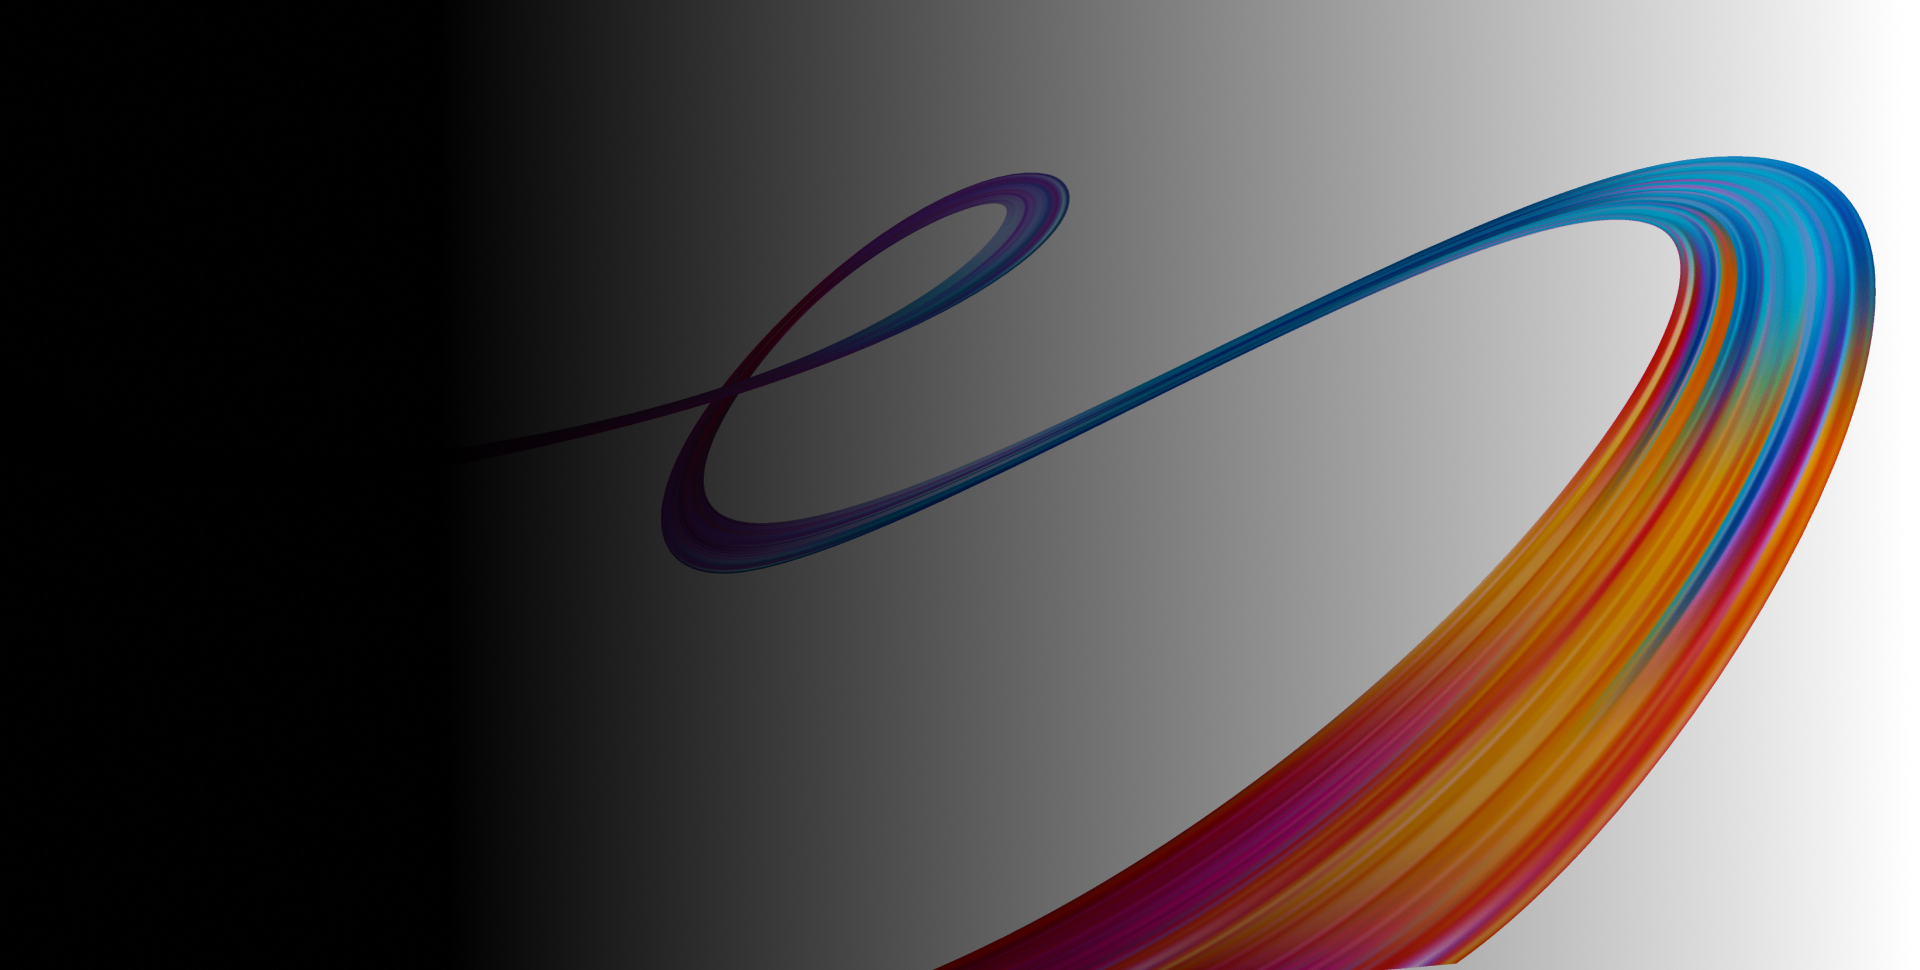
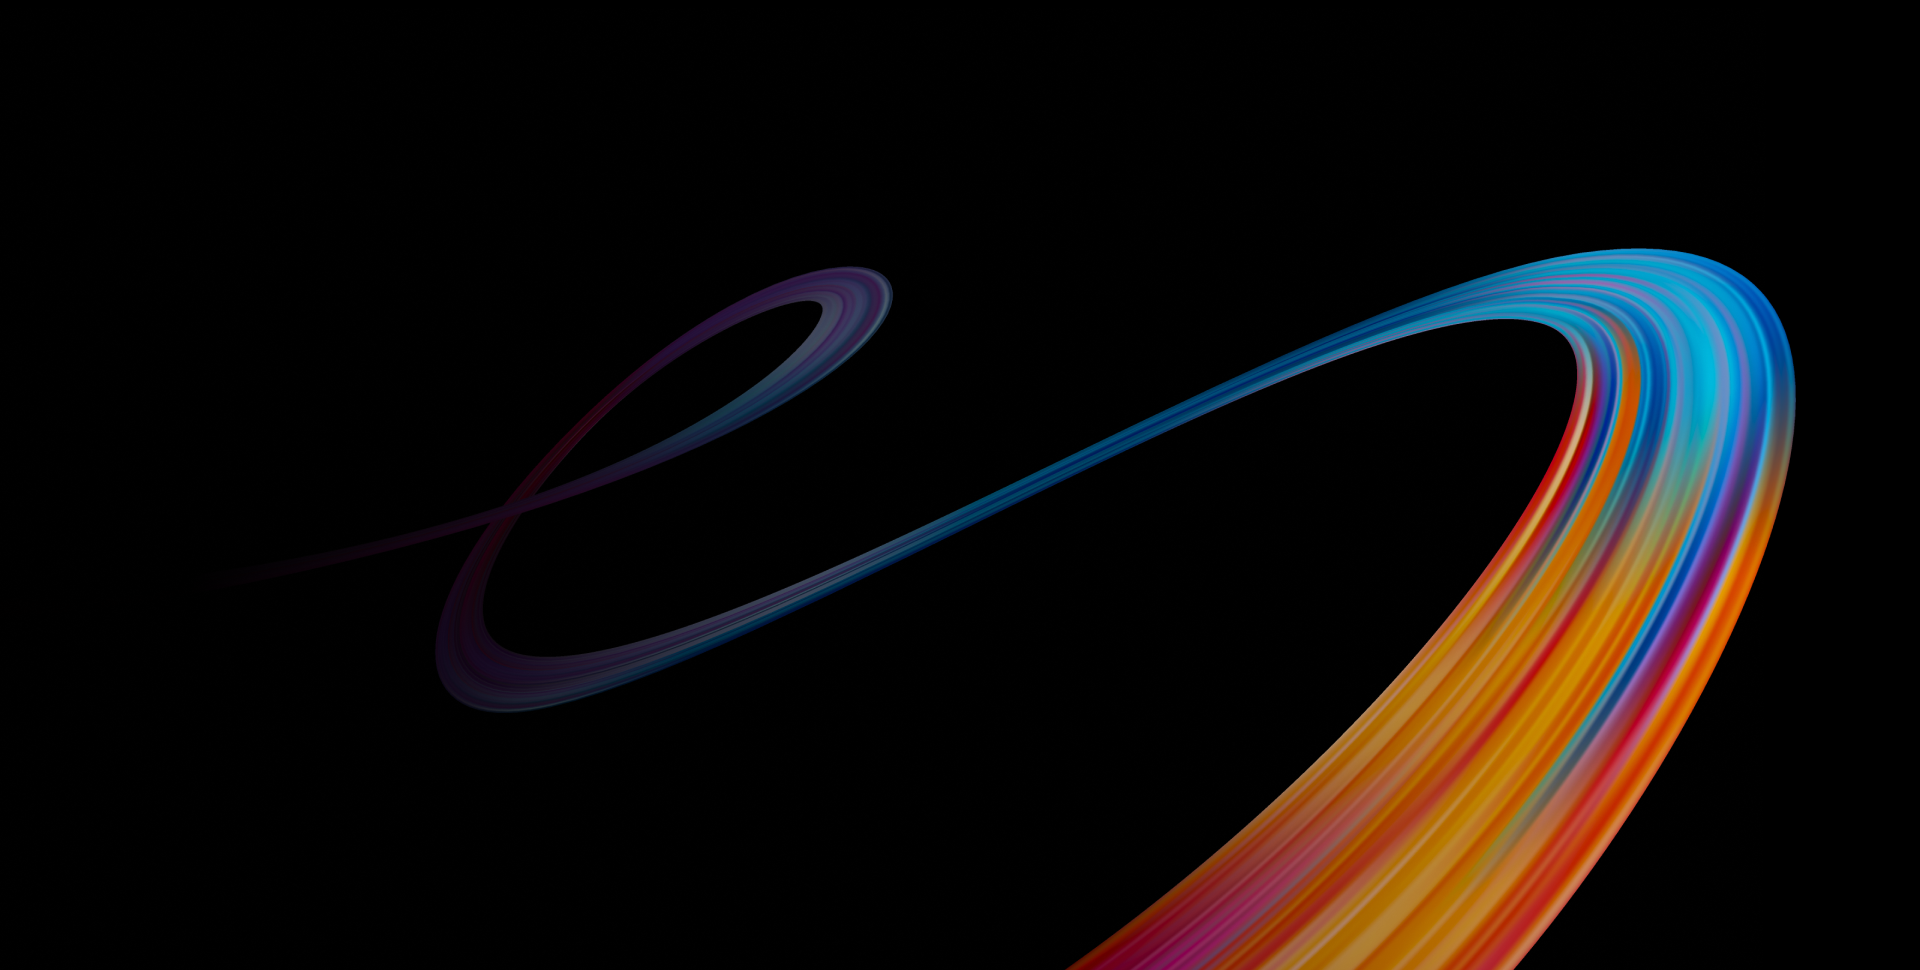
.

diff --git a/asset/css/common.css b/asset/css/common.css
@@ -34,10 +34,10 @@ footer p { font-size: 0.73vw ; line-height: 0.99vw ; text-align: right;}
 footer .p2 { margin-top: 1.09vw ;}
 
 /* Common */
+section {position: relative;min-height: 50.52vw;padding: 0 4.69vw;}
+section::after {position: absolute;bottom: 0;content: "";width: 84.38vw ;height: 1px;background-color: #5A5A5A;}
 .wrap{ width: 100vw; padding: 4.84vw 3.13vw 3.59vw 3.13vw;}
 .scroll { position: absolute; top: 41.09vw ; right: 4.69vw; font-size: 0.94vw ;line-height: 1.35vw ; transform: rotate(90deg);}
-.scroll.off { display: none;}
-.scroll.bottom { display: none !important;}
 
 /* INDEX(MAIN) */
 .mainWrap { padding: 2.4vw 4.69vw 0;}
@@ -57,12 +57,10 @@ footer .p2 { margin-top: 1.09vw ;}
 .mainWrap #nftTower { position: absolute; top: 7.24vw ; right: 11.72vw ; width: 14.06vw ;}
 
 /* ABOUT */
-#about section {position: relative;min-height: 50.52vw;padding: 0 4.69vw;}
-#about section::after {position: absolute;bottom: 0;content: "";width: 84.38vw ;height: 1px;background-color: #5A5A5A;}
 #about .p0 {font-size: 1.25vw ;line-height: 1.82vw ;padding-top: 4.90vw ;}
 #about.wrap {padding: 4.84vw 3.13vw 0 3.13vw;}
 
-#about .section01{padding-top: 6.25vw; background-image: url("../image/about-bg01.png");background-position-x: -78px;}
+#about .section01{padding-top: 6.25vw; background-image: url("../image/about-bg01.png");background-position-y: -98px; background-size: 1920px 1066px;}
 #about .section01 .p1 {font-size: 1.46vw ;line-height: 2.14vw ;color: #787878;} 
 #about .section01 .p2 {font-size: 2.08vw ;line-height: 2.34vw ;} 
 #about .section01 .p3 {font-size: 2.60vw ;line-height: 3.39vw ;} 
@@ -93,12 +91,22 @@ footer .p2 { margin-top: 1.09vw ;}
 
 #about .section05 { position: relative;}
 #about .section05::after {content:none }
-#about .section05 .section05-bg{position: absolute;top: 0;left: -55px;width: 100vw;height: 100%;}
-#about .section05 .contents{display: flex;flex-direction: column;align-items: center;text-align: center;margin-top: 94px;}
-#about .section05 .contents .flexBox {text-align: left;margin-left: 350px;}
-#about .section05 .contents .flexBox .dl{width: 187px;font-size: 22px;line-height: 33px;margin-bottom: 42px;}
-#about .section05 .contents .flexBox .dr{width: 673px;font-size: 20px;line-height: 33px;}
-#about .section05 .contents .flexBox .p2{font-size: 18px;line-height: 21px;color: #9A9A9A;margin-top: 5.6px;}
-#about .section05 .contents .flexBox .p3{font-size: 16px;line-height: 18.75px;color: #737373;margin-left: 10px;}
+#about .section05 .section05-bg{position: absolute;top: 0;left: -2.86vw ;width: 100vw;height: 100%;}
+#about .section05 .contents{display: flex;flex-direction: column;align-items: center;text-align: center;margin-top: 4.90vw;}
+#about .section05 .contents .flexBox {text-align: left;margin-left: 18.23vw;}
+#about .section05 .contents .flexBox .dl{width: 9.74vw;font-size: 1.15vw;line-height: 1.72vw;margin-bottom: 2.19vw;}
+#about .section05 .contents .flexBox .dr{width: 35.05vw;font-size: 1.04vw;line-height: 1.72vw;}
+#about .section05 .contents .flexBox .p2{font-size: 0.94vw;line-height: 1.09vw ;color: #9A9A9A;margin-top: 0.3vw;}
+#about .section05 .contents .flexBox .p3{font-size: 0.83vw;line-height: 0.98vw ;color: #737373;margin-left: 0.52vw;}
 #about .section05 .contents .flexBox .pf{display: flex;}
-#about .section05 .contents .flexBox .verLine {display: block;width: 1px;height: 15px;margin: 0 20px;margin-top: 12px;background-color: #7C7C7C;}
+#about .section05 .contents .flexBox .verLine {display: block;width: 1px;height: 0.78vw;margin: 0 1.04vw;margin-top: 0.63vw;background-color: #7C7C7C;}
+#about .section05 .topBtn { position: absolute; right: 0px; bottom: 2.76vw ;}
+#about .section05 .topBtn .btn-circle{display: flex;justify-content: center;align-items: center;width: 3.23vw;height: 3.23vw;border-radius: 50%;background-color: #181818;}
+
+
+/* PARTICIPATION */
+#participation .section01 { padding-top: 15.36vw;}
+#participation .section01 .title{font-size: 4.17vw;line-height: 6.04vw;}
+#participation .section01 .p1{font-size: 1.15vw;line-height: 2.29vw;}
+#participation .section01 .horLine{display: block;width: 3.65vw ;height: 1px;background-color: #fff;margin-top: 1.98vw;}
+

diff --git a/asset/code/participation.html b/asset/code/participation.html
@@ -5,8 +5,8 @@
   <meta http-equiv="X-UA-Compatible" content="IE=edge">
   <meta name="viewport" content="width=device-width, initial-scale=1.0">
   <title>Dubai NFT Festival</title>
-  <link rel="stylesheet" href="./asset/css/reset.css">
-  <link rel="stylesheet" href="./asset/css/common.css">
+  <link rel="stylesheet" href="../css/reset.css">
+  <link rel="stylesheet" href="../css/common.css">
 </head>
 <body>
   <header>
@@ -18,7 +18,7 @@
     <nav>
       <ul class="gnb">
         <li class="gnb_menu">
-          <a href="/asset/code/about.html"><span class="gnb_title">About</span></a>
+          <a href="about.html"><span class="gnb_title">About</span></a>
         </li>
         <li class="gnb_menu">
           <a href=""><span class="gnb_title">Program</span></a>
@@ -48,7 +48,7 @@
           </ul>
         </li>
         <li class="gnb_menu">
-          <a href="/asset/code/participation.html"><span class="gnb_title">Participation</span></a>
+          <a href="participation.html"><span class="gnb_title">Participation</span></a>
           <ul>
             <li><a href="">등록하기</a></li>
             <li><a href="">등록확인</a></li>
@@ -66,41 +66,24 @@
       </ul>
     </nav>
   </header>
-  
-  <div class="wrap">
-    <div class="mainWrap">
-      <p class="p1">2022</p>
-      <p class="p2">Dubai <span class="f-w700" style="color:#C6268F;">N</span><span class="f-w700" style="color:#FCAC06;">F</span><span class="f-w700" style="color:#2C907A;">T</span> Festival</p>
-      <p class="p3">View! The Direction of Evolution</p>
 
-      <div class="countdownBox">
-        <div class="inner">
-          <div id="timer"></div>
-        </div>
-      </div>
+  <div class="wrap" id="participation">
+    <section class="section01">
+      <p class="title f-w700">Participation</p>
+      <p class="p1">참가방법</p>
+      <span class="horLine"></span>
+    </section>
+    <p class="scroll">SCROLL DOWN</p>
 
-      <div class="flexBox">
-        <div class="dl">Title</div>
-        <div class="dr">The 2022 Dubai NFT Festival</div>
-      </div>
-      <div class="flexBox">
-        <div class="dl">Date</div>
-        <div class="dr">2022.10.24 Mon. ~ 2022.10.25 Tue</div>
-      </div>
-      <div class="flexBox">
-        <div class="dl">Location</div>
-        <div class="dr">Park Hyatt Dubai</div>
-      </div>
 
-      <img src="./asset/image/main-tower.png" alt="NFT Tower" id="nftTower">
-    </div>
   </div>
+
 
   <footer>
     <p class="p1">©2022 Dubai <span class="f-w700">NFT</span> Festival</p>
     <p class="p2">VAEX DMCC #3803, Jumeirah Bay Tower X3, cluster X, JLT ,Dubai, UAE</p>
   </footer>
   <script src="https://code.jquery.com/jquery-3.6.1.min.js"></script>
-  <script src="./asset/js/common.js"></script>
+  <script src="../js/common.js"></script>
 </body>
 </html>

diff --git a/asset/code/about.html b/asset/code/about.html
@@ -10,13 +10,15 @@
 </head>
 <body>
   <header>
-    <div class="logo">
-      <p class="f-w700">DNF</p>
-    </div>
+    <a href="/index.html">
+      <div class="logo">
+        <p class="f-w700">DNF</p>
+      </div>
+    </a>
     <nav>
       <ul class="gnb">
         <li class="gnb_menu">
-          <a href=""><span class="gnb_title">About</span></a>
+          <a href="about.html"><span class="gnb_title">About</span></a>
         </li>
         <li class="gnb_menu">
           <a href=""><span class="gnb_title">Program</span></a>
@@ -46,7 +48,7 @@
           </ul>
         </li>
         <li class="gnb_menu">
-          <a href=""><span class="gnb_title">Participation</span></a>
+          <a href="participation.html"><span class="gnb_title">Participation</span></a>
           <ul>
             <li><a href="">등록하기</a></li>
             <li><a href="">등록확인</a></li>
@@ -65,7 +67,7 @@
     </nav>
   </header>
 
-  <div class="wrap scrollWrap" id="about">
+  <div class="wrap" id="about">
     <section class="section01 fbg">
       <p class="p1">THEME</p>
       <p class="p2">NFT Evolution</p>
@@ -199,6 +201,13 @@
           </div>
         </div>
       </div>
+      <a href="#about">
+        <div class="topBtn">
+          <div class="btn-circle">
+            <img src="../image/arr-white.png" alt="arrow icon" >
+          </div>
+        </div>
+      </a>
     </section>    
   </div>
 

diff --git a/asset/js/common.js b/asset/js/common.js
@@ -43,7 +43,7 @@ function updateTimer() {
 		return;
 	}
 
-  future  = Date.parse("October 24, 2022 15:00:00");
+  future  = Date.parse("October 24, 2022 10:30:00");
   now     = new Date();
   diff    = future - now;
 
